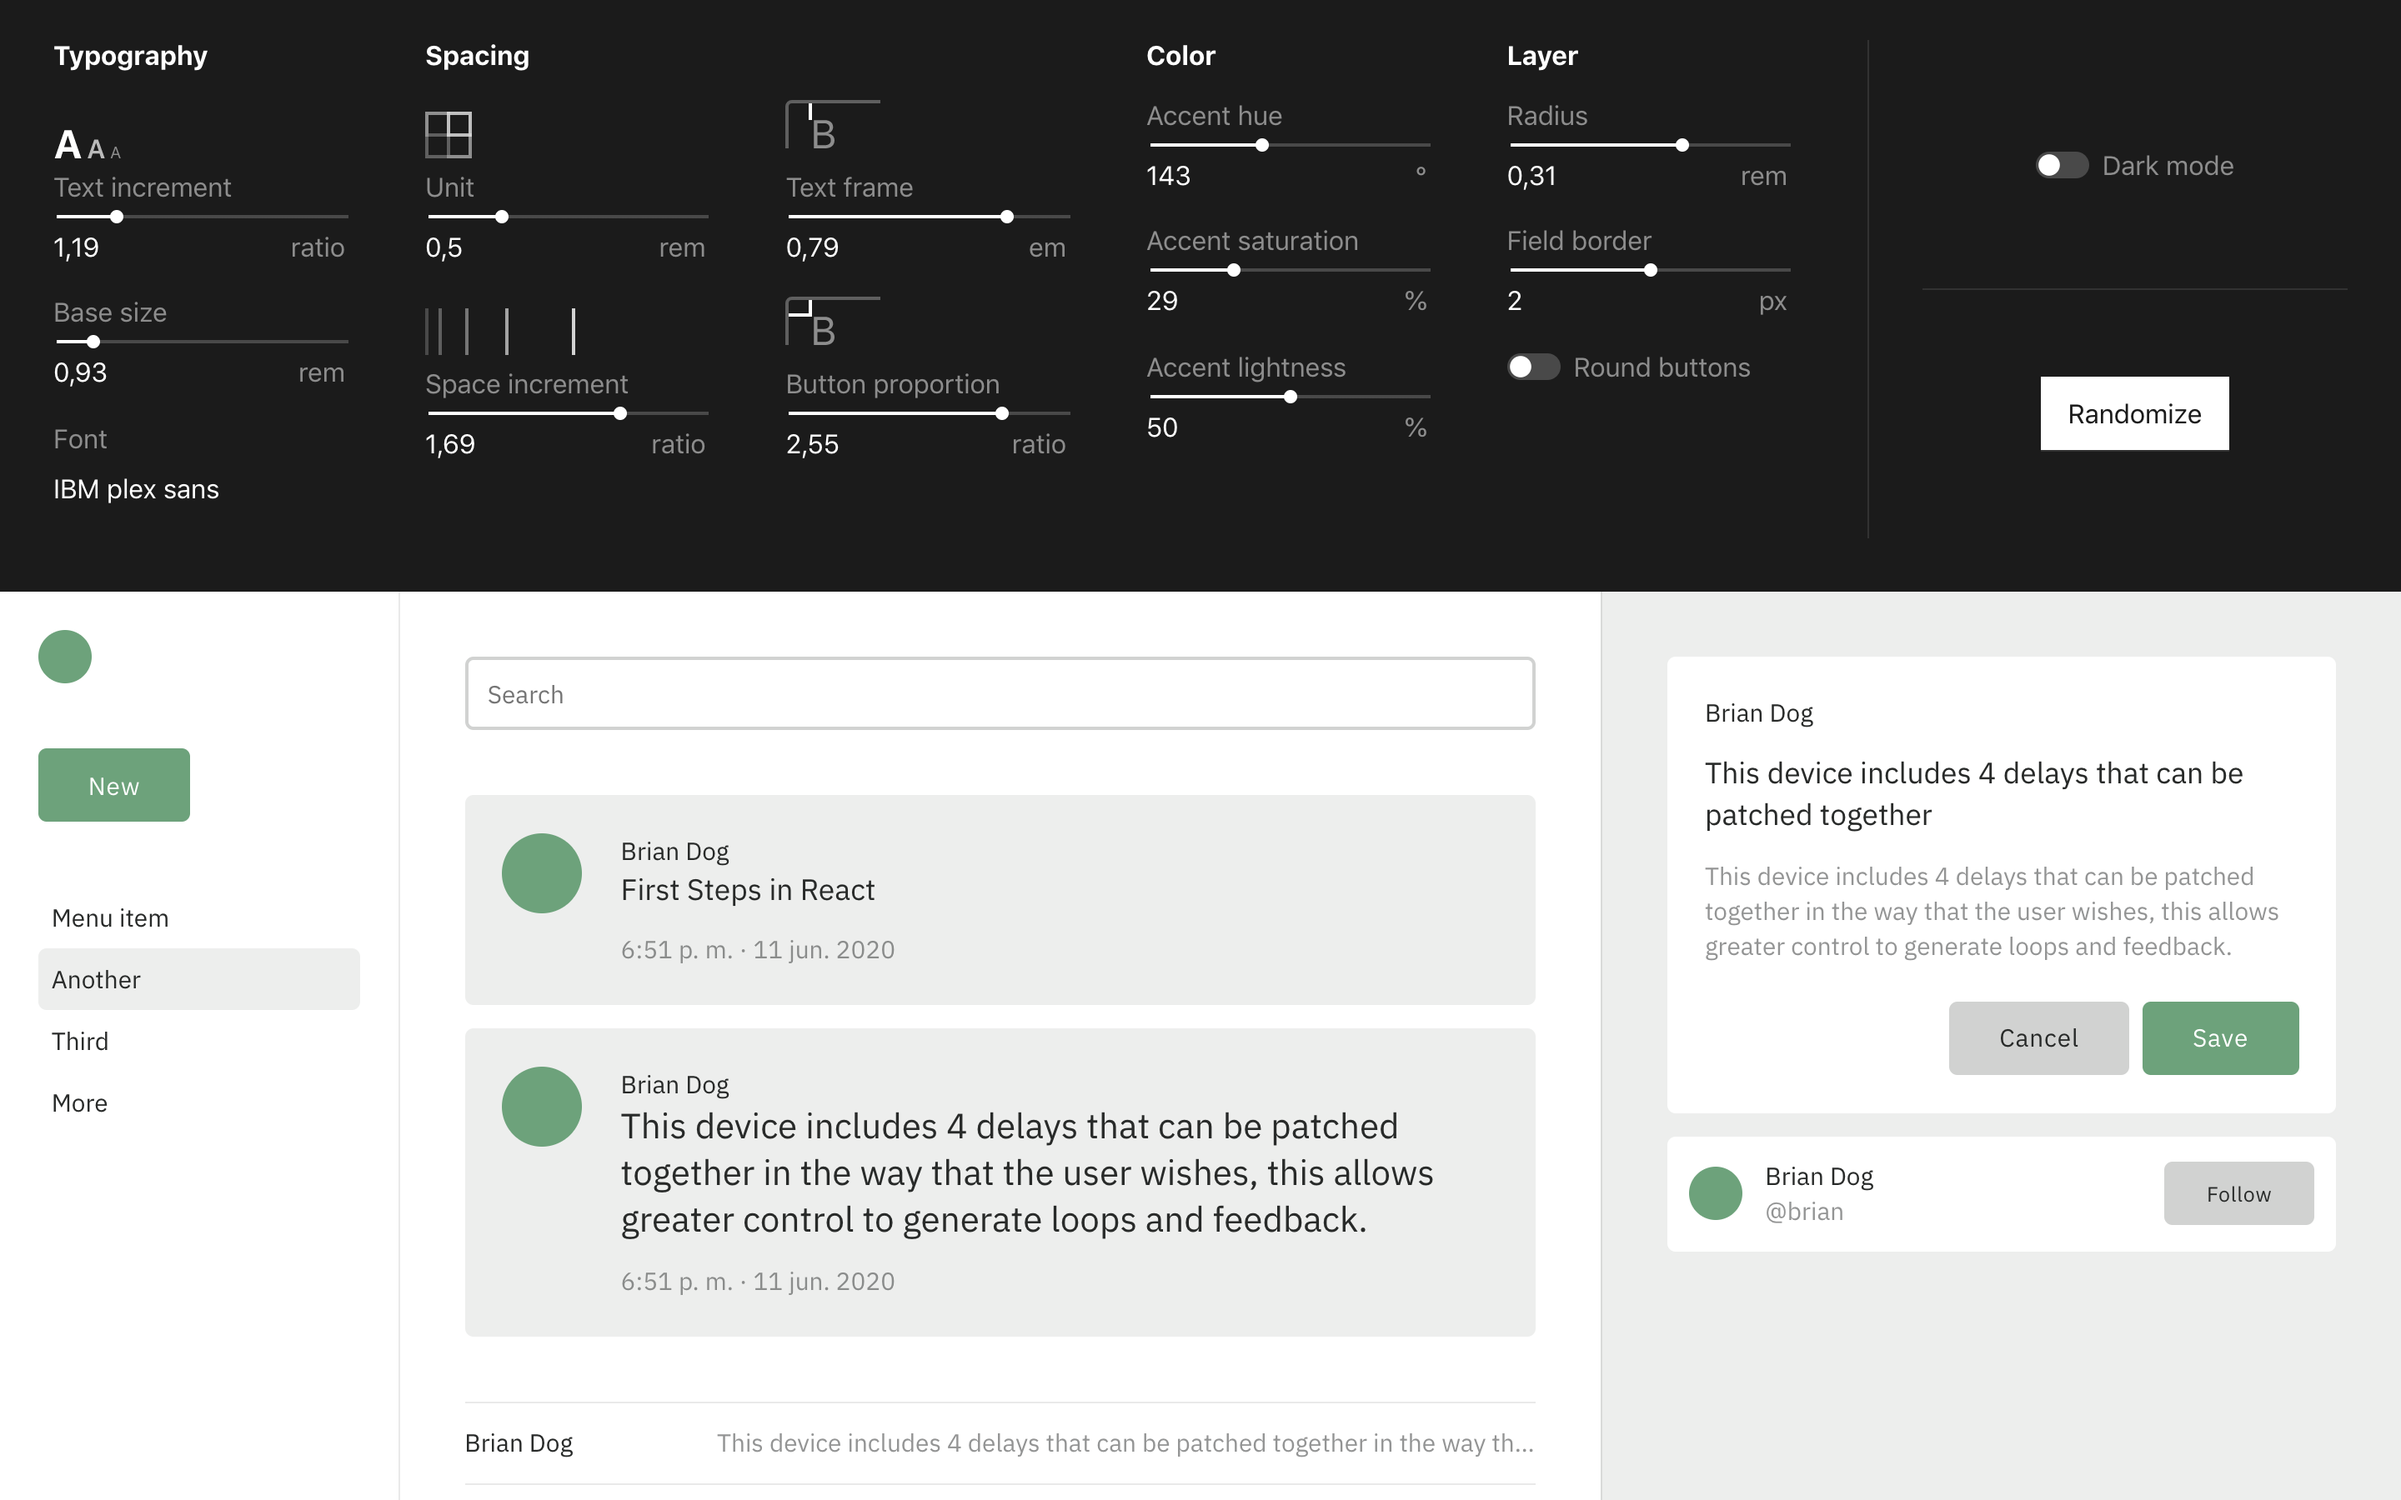
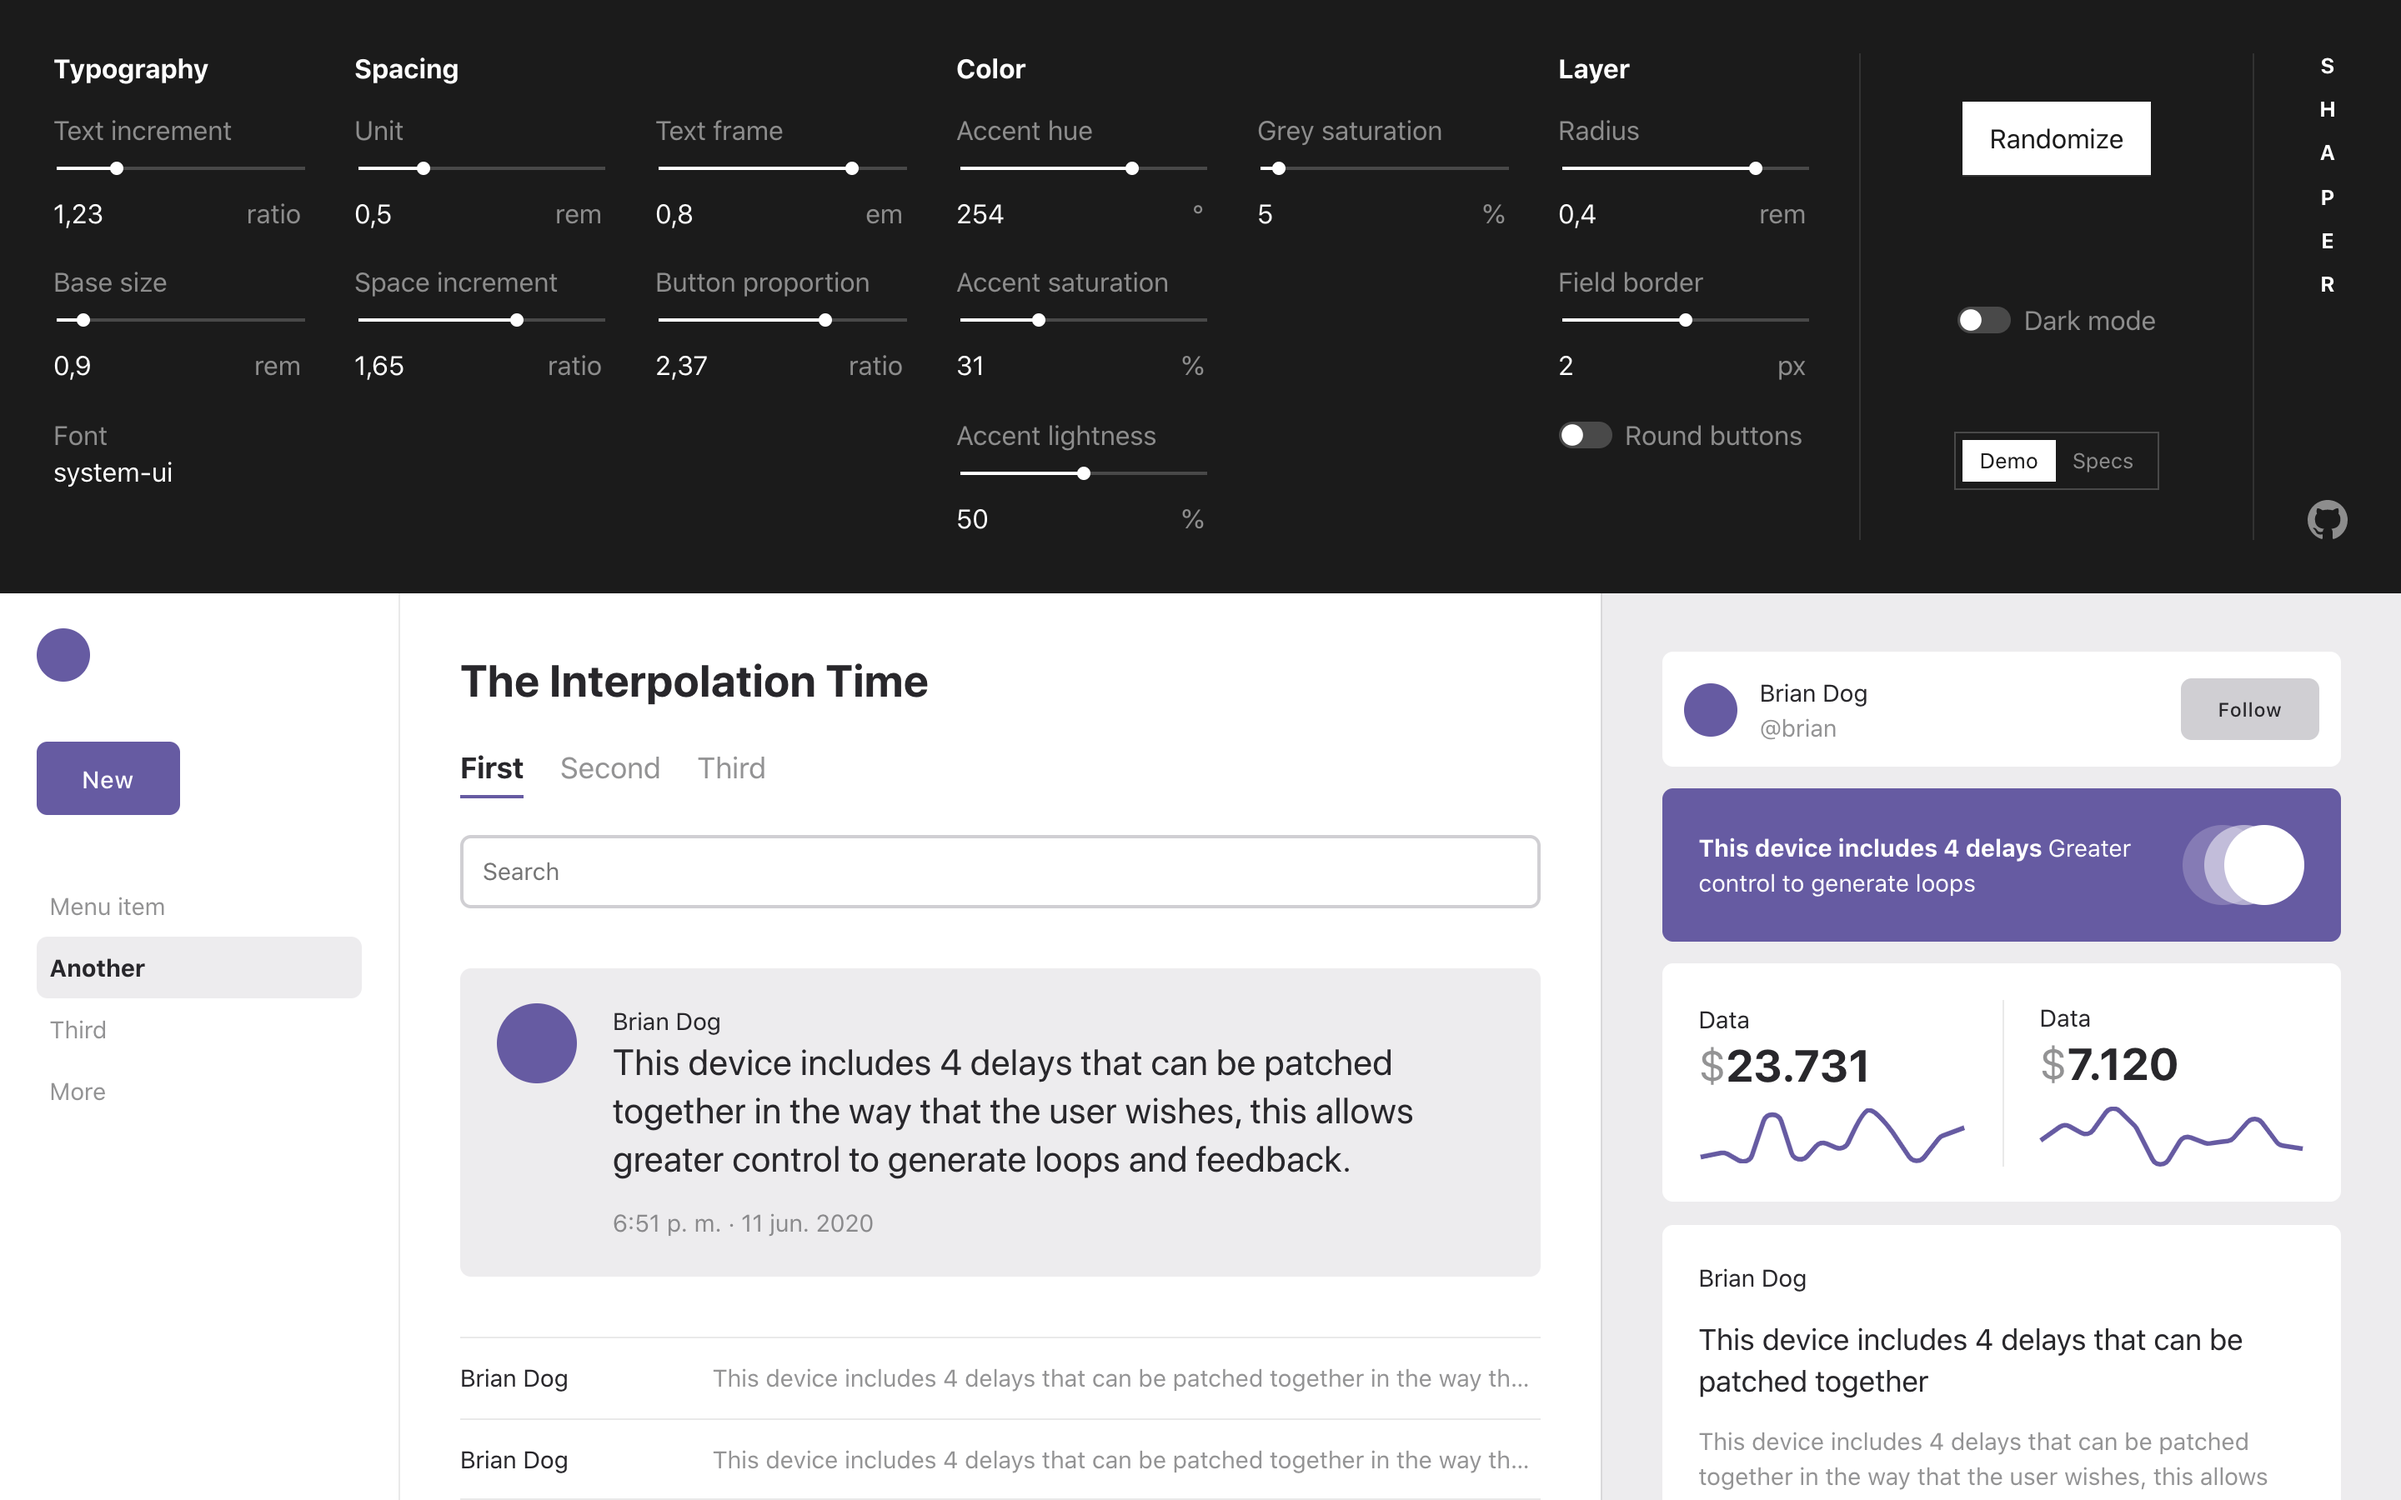
github link

diff --git a/src/components/settings.js b/src/components/settings.js
@@ -287,7 +287,9 @@ const Settings = ({
             <span>R</span>
           </div>
 
-          <a className="infoIcon" href="https://github.com/hihayk/shaper" target="_blank" rel="noopener noreferrer">i</a>
+          <a className="ghIcon" href="https://github.com/hihayk/shaper" target="_blank" rel="noopener noreferrer">
+            <svg class="octicon octicon-mark-github v-align-middle" viewBox="0 0 16 16" version="1.1" aria-hidden="true"><path fill="currentColor" fill-rule="evenodd" d="M8 0C3.58 0 0 3.58 0 8c0 3.54 2.29 6.53 5.47 7.59.4.07.55-.17.55-.38 0-.19-.01-.82-.01-1.49-2.01.37-2.53-.49-2.69-.94-.09-.23-.48-.94-.82-1.13-.28-.15-.68-.52-.01-.53.63-.01 1.08.58 1.23.82.72 1.21 1.87.87 2.33.66.07-.52.28-.87.51-1.07-1.78-.2-3.64-.89-3.64-3.95 0-.87.31-1.59.82-2.15-.08-.2-.36-1.02.08-2.12 0 0 .67-.21 2.2.82.64-.18 1.32-.27 2-.27.68 0 1.36.09 2 .27 1.53-1.04 2.2-.82 2.2-.82.44 1.1.16 1.92.08 2.12.51.56.82 1.27.82 2.15 0 3.07-1.87 3.75-3.65 3.95.29.25.54.73.54 1.48 0 1.07-.01 1.93-.01 2.2 0 .21.15.46.55.38A8.013 8.013 0 0016 8c0-4.42-3.58-8-8-8z"></path></svg>
+          </a>
         </div>
       </div>
     </div>

diff --git a/src/settings.css b/src/settings.css
@@ -72,23 +72,18 @@ input[type=number] {
   margin-bottom: 0.7rem;
 }
 
-.infoIcon {
-  background-color: hsla(0, 0%, 100%, 0.2);
-  color: #1B1B1B;
-  color: white;
-  text-align: center;
+.ghIcon {
   width: 1.5rem;
   height: 1.5rem;
-  display: flex;
-  align-items: center;
-  justify-content: center;
-  border-radius: 100%;
-  font-weight: bold;
-  /* font-family: georgia; */
-  font-family: monospace;
-  font-size: 1.2rem;
   cursor: pointer;
   text-decoration: none;
+  color: inherit;
+  opacity: 0.5;
+}
+
+.ghIcon svg {
+  display: block;
+  width: 100%;
 }
 
 .aboutSection {
@@ -108,7 +103,7 @@ input[type=number] {
   display: grid;
   justify-items: center;
   align-items: center;
-  padding: 0 4rem;
+  padding: 0 3.5rem;
 }
 
 .randomButtonSection {
